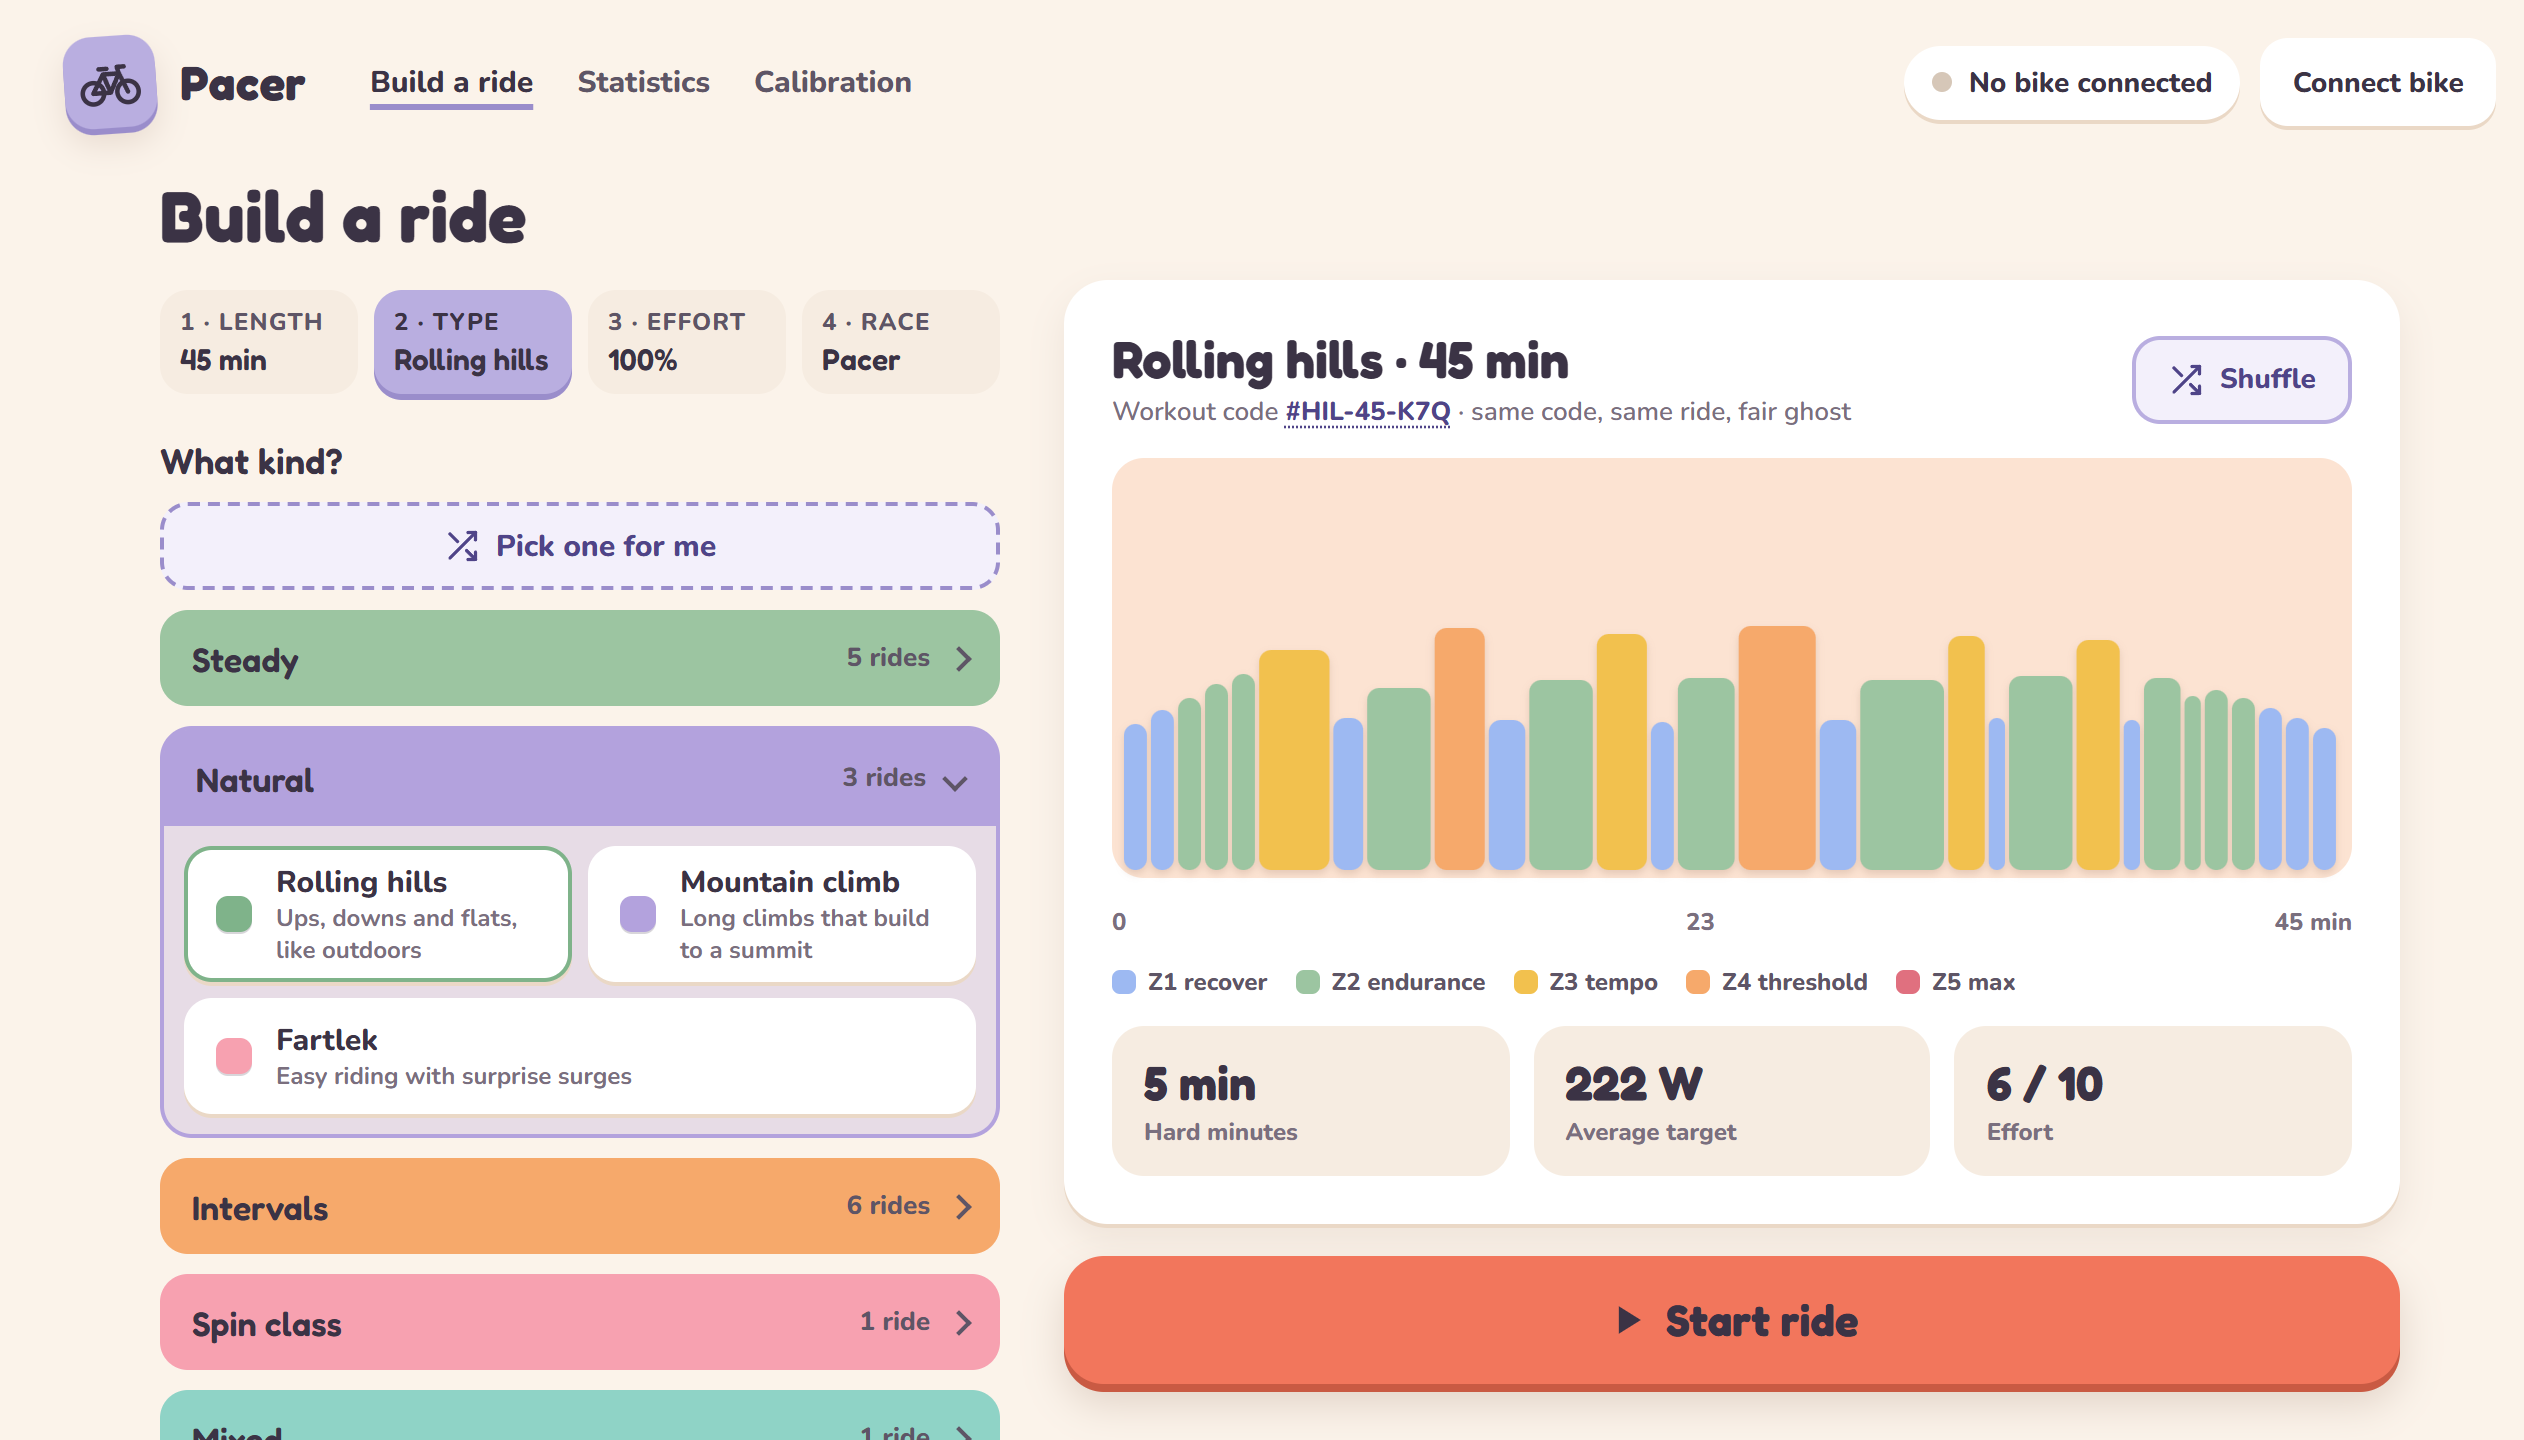
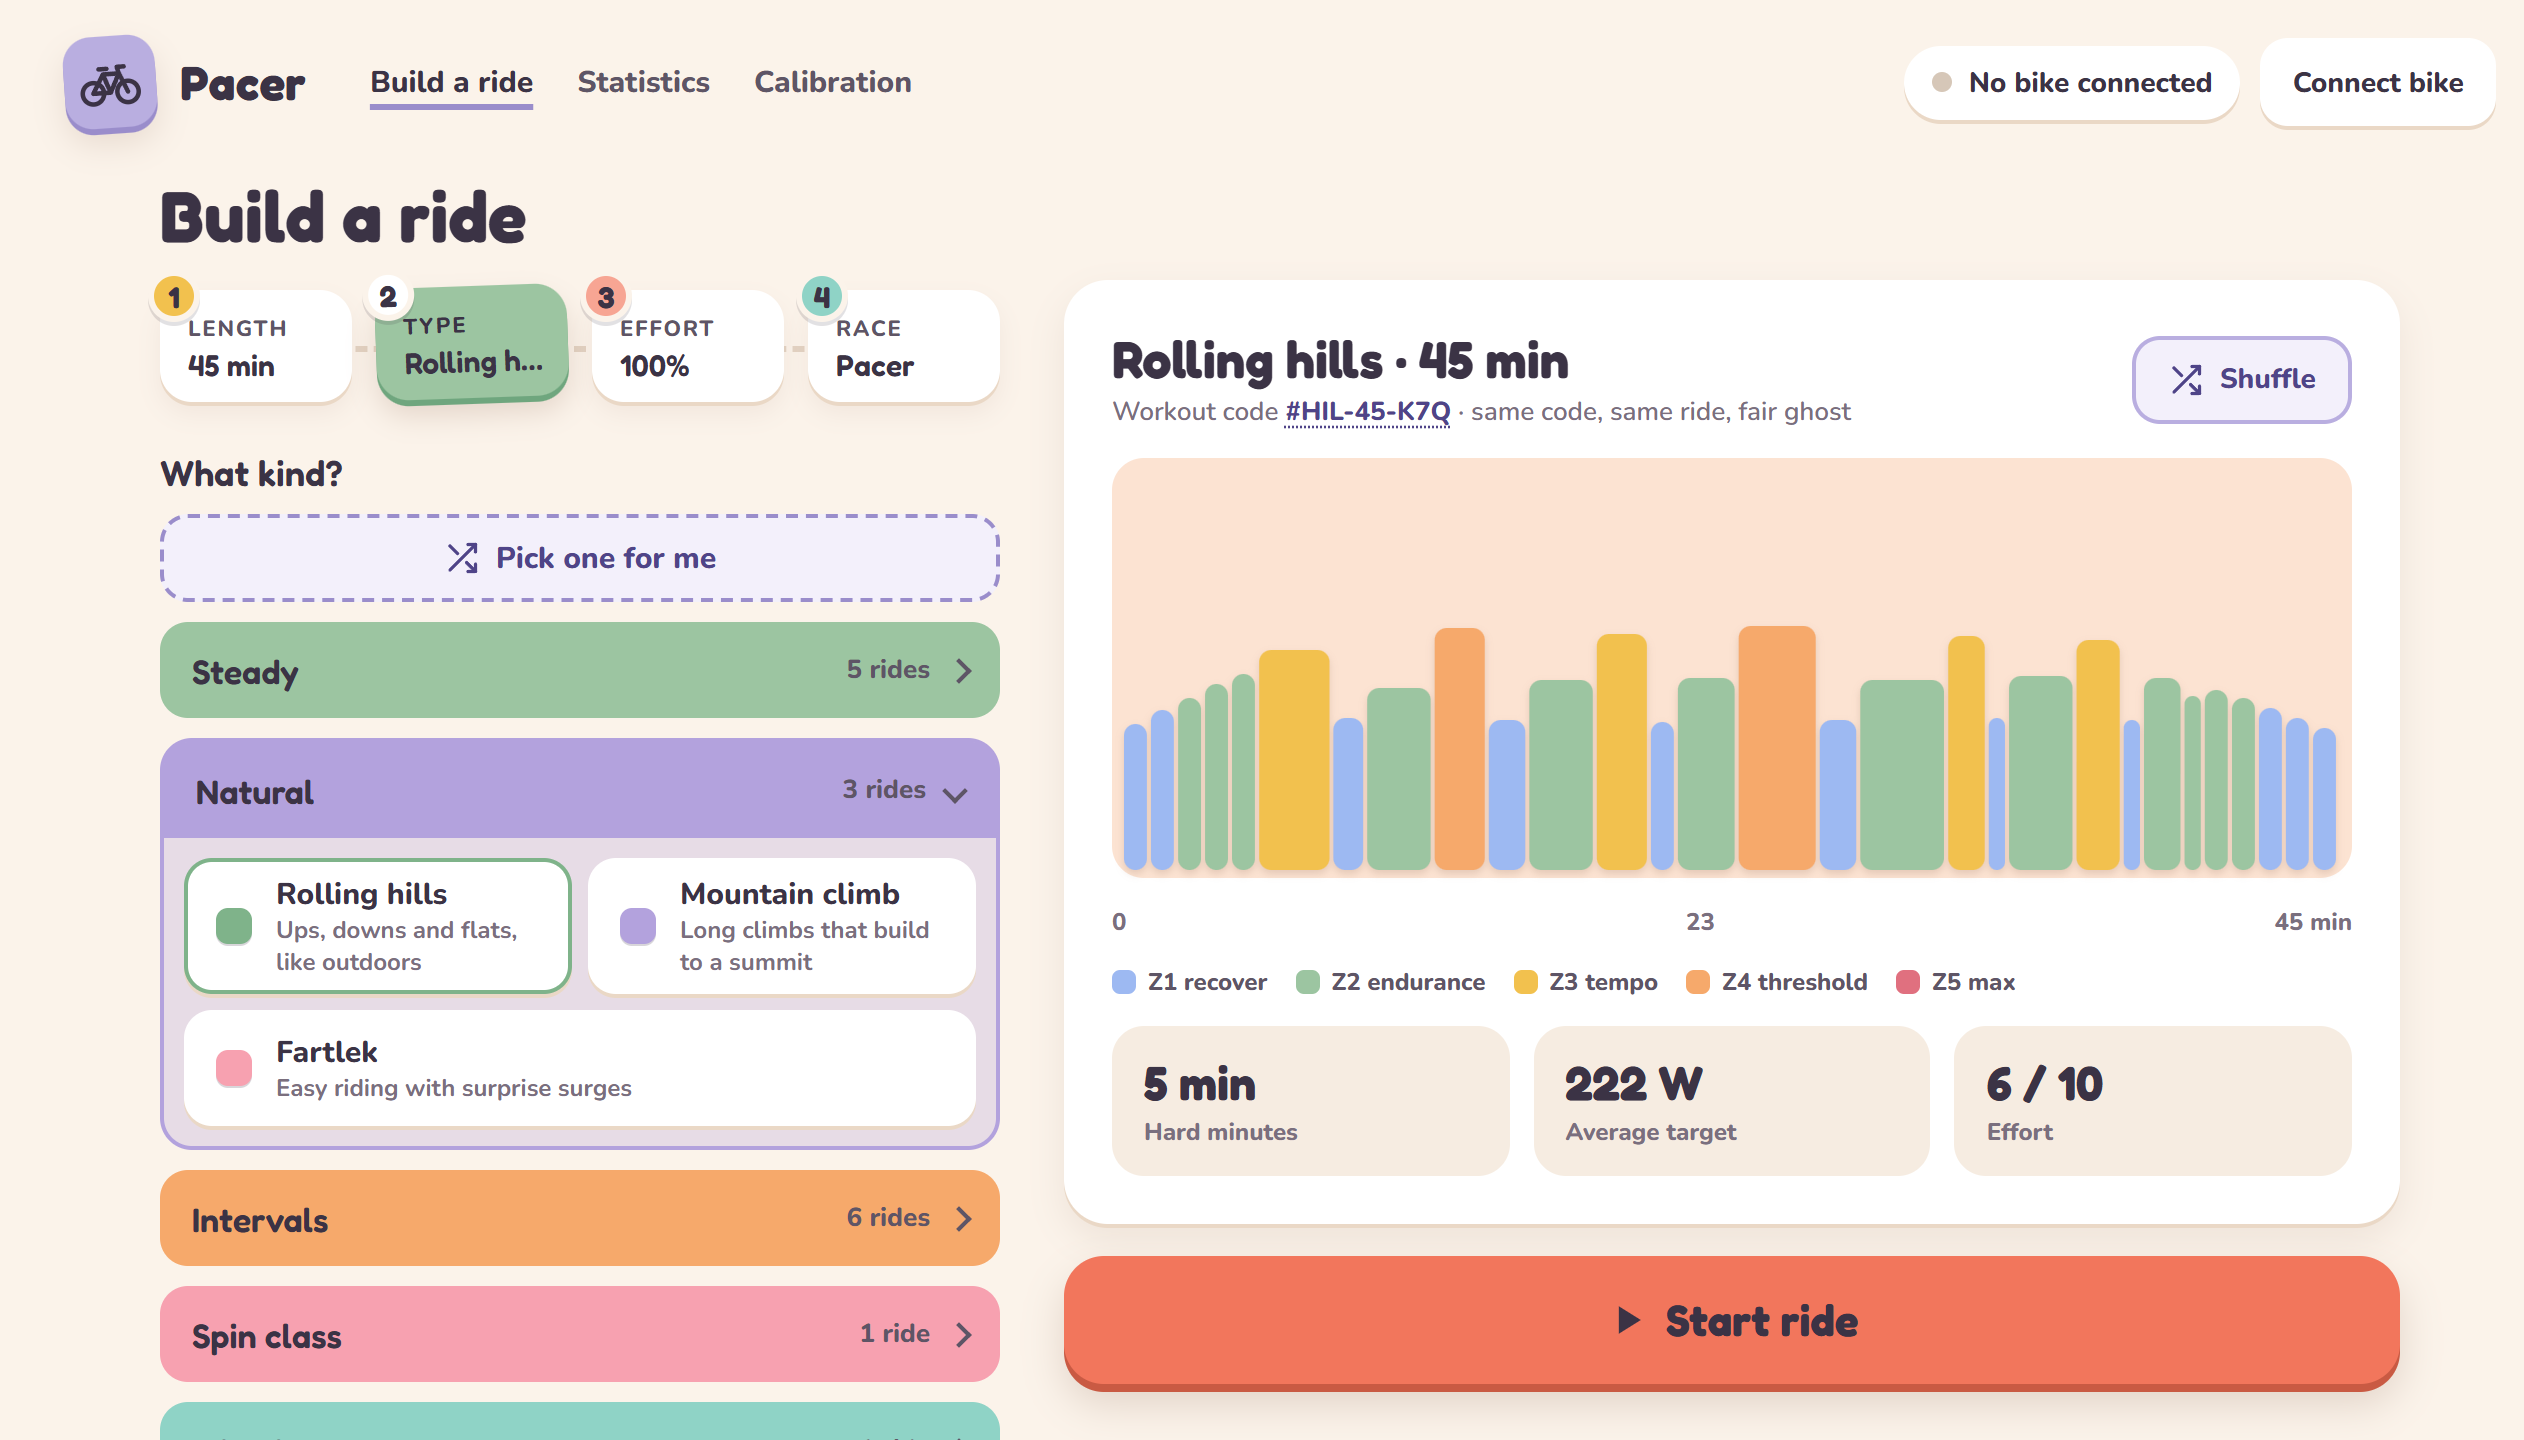
Restyle the setup steps as numbered paper tags
Each step has a round numbered badge in its own colour, strung along a
dashed line; the current step is lifted, tilted and filled.

Claude-Session: https://claude.ai/code/session_019bcLdA25aR7snsdYMj9RXw

Changed region(s): [[0.0618, 0.3125, 0.4017, 1.0], [0.0618, 0.1875, 0.4017, 0.2812]]

diff --git a/styles/app.css b/styles/app.css
@@ -107,14 +107,34 @@ main { padding: 0 32px 40px; }
 .title { font-family: var(--display); font-weight: 700; font-size: 36px; margin: 4px 0 16px; }
 .title-sm { font-family: var(--display); font-weight: 700; font-size: 26px; margin: 0 0 10px; }
 .setup-grid { display: grid; grid-template-columns: 420px minmax(0, 1fr); gap: 32px; }
-.steps { list-style: none; display: grid; grid-template-columns: repeat(4, minmax(0, 1fr)); gap: 8px; margin: 0 0 22px; padding: 0; }
+/* The four setup steps: paper tags strung along a dashed line, each with a
+   numbered button of its own colour. The current one is lifted and tilted. */
+.steps { position: relative; list-style: none; display: grid; grid-template-columns: repeat(4, minmax(0, 1fr)); gap: 12px; margin: 10px 0 24px; padding: 0; }
+.steps::before { content: ''; position: absolute; left: 8%; right: 8%; top: 50%; border-top: 3px dashed var(--line); }
+.steps li { position: relative; }
 .step {
-  width: 100%; border: 0; border-radius: 14px; padding: 8px 10px; text-align: left; cursor: pointer;
-  background: var(--sand); color: var(--ink-soft); font-family: inherit; display: flex; flex-direction: column; gap: 1px;
+  position: relative; width: 100%; border: 0; border-radius: 16px; padding: 12px 10px 9px 14px; text-align: left; cursor: pointer;
+  background: var(--paper); color: var(--ink-soft); font-family: inherit; display: flex; flex-direction: column; gap: 1px;
+  box-shadow: 0 2px 0 #EAD8C6, 0 6px 12px rgba(122, 78, 58, 0.08); transition: transform 0.15s;
 }
-.step .step-name { font-size: 12px; font-weight: 800; text-transform: uppercase; letter-spacing: 0.05em; }
+.step:hover { transform: translateY(-2px); }
+.step-num {
+  position: absolute; top: -10px; left: -6px; width: 26px; height: 26px; border-radius: 50%; display: grid; place-items: center;
+  font-family: var(--display); font-weight: 700; font-size: 15px; color: var(--ink); background: var(--step, var(--sand));
+  border: 3px solid var(--cream); box-shadow: 0 2px 0 rgba(59, 51, 69, 0.15);
+}
+.steps li:nth-child(1) { --step: var(--mustard); --step-deep: var(--mustard-deep); }
+.steps li:nth-child(2) { --step: #9CC5A1; --step-deep: #6FA67E; }
+.steps li:nth-child(3) { --step: #F7A593; --step-deep: var(--coral-deep); }
+.steps li:nth-child(4) { --step: var(--mint); --step-deep: var(--mint-deep); }
+.step .step-name { font-size: 11px; font-weight: 800; text-transform: uppercase; letter-spacing: 0.08em; }
 .step .step-pick { font-family: var(--display); font-weight: 600; font-size: 15px; color: var(--ink); white-space: nowrap; overflow: hidden; text-overflow: ellipsis; }
-.step[aria-current="step"] { background: var(--lavender); color: var(--ink); box-shadow: 0 3px 0 var(--lavender-deep); }
+.step[aria-current="step"] {
+  background: var(--step); color: var(--ink); transform: rotate(-2deg) translateY(-2px);
+  box-shadow: 0 3px 0 var(--step-deep), 0 8px 14px rgba(122, 78, 58, 0.18);
+}
+.step[aria-current="step"] .step-num { background: var(--paper); }
+.sr-only { position: absolute; width: 1px; height: 1px; overflow: hidden; clip-path: inset(50%); white-space: nowrap; }
 .step-nav { display: flex; justify-content: space-between; gap: 10px; margin-top: 4px; }
 .step-nav .btn { min-width: 110px; }
 .group { border: 0; padding: 0; margin: 0 0 20px; }

diff --git a/src/ui/app.js b/src/ui/app.js
@@ -278,7 +278,8 @@ function renderSetup() {
   const picks = [`${w.minutes} min`, w.name, `${Math.round(settings.effort * 100)}%`, { pb: 'Your best', last: 'Last ride' }[state.ghostKind] ?? 'Pacer'];
   $('steps').innerHTML = SETUP_STEPS.map((name, i) => `
     <li><button type="button" class="step" data-go="${i}" ${i === state.step ? 'aria-current="step"' : ''}>
-      <span class="step-name">${i + 1} · ${name}</span><span class="step-pick">${esc(picks[i])}</span>
+      <span class="step-num" aria-hidden="true">${i + 1}</span>
+      <span class="step-name"><span class="sr-only">Step ${i + 1}: </span>${name}</span><span class="step-pick">${esc(picks[i])}</span>
     </button></li>`).join('');
   for (const el of document.querySelectorAll('[data-step]')) el.hidden = Number(el.dataset.step) !== state.step;
   $('step-back').style.visibility = state.step === 0 ? 'hidden' : 'visible';
